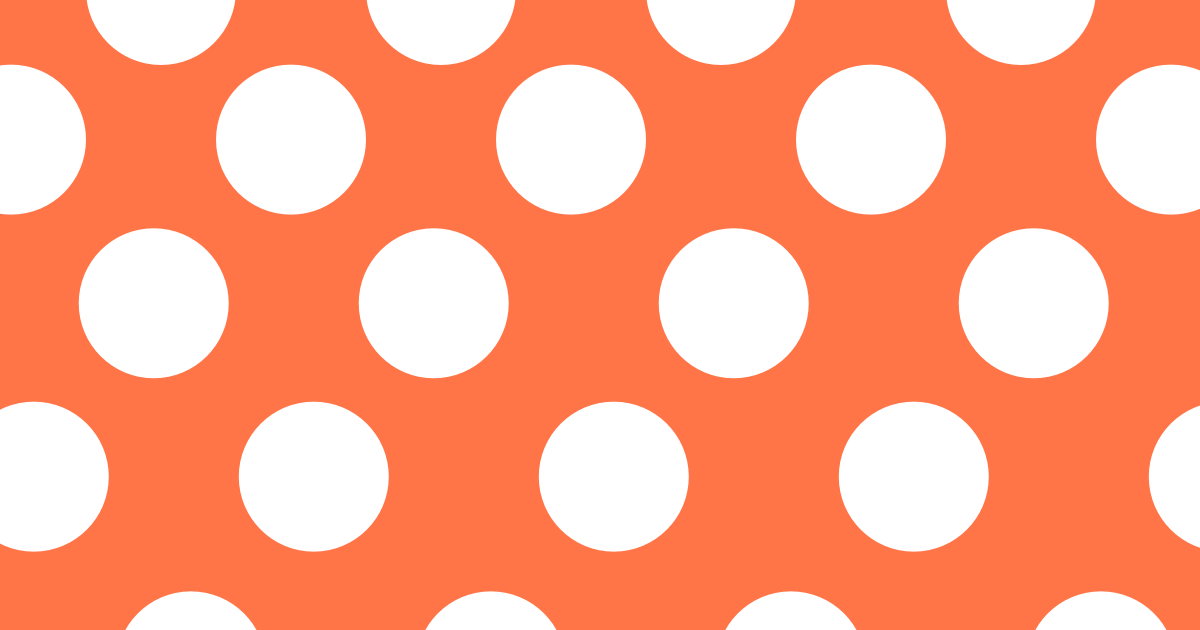
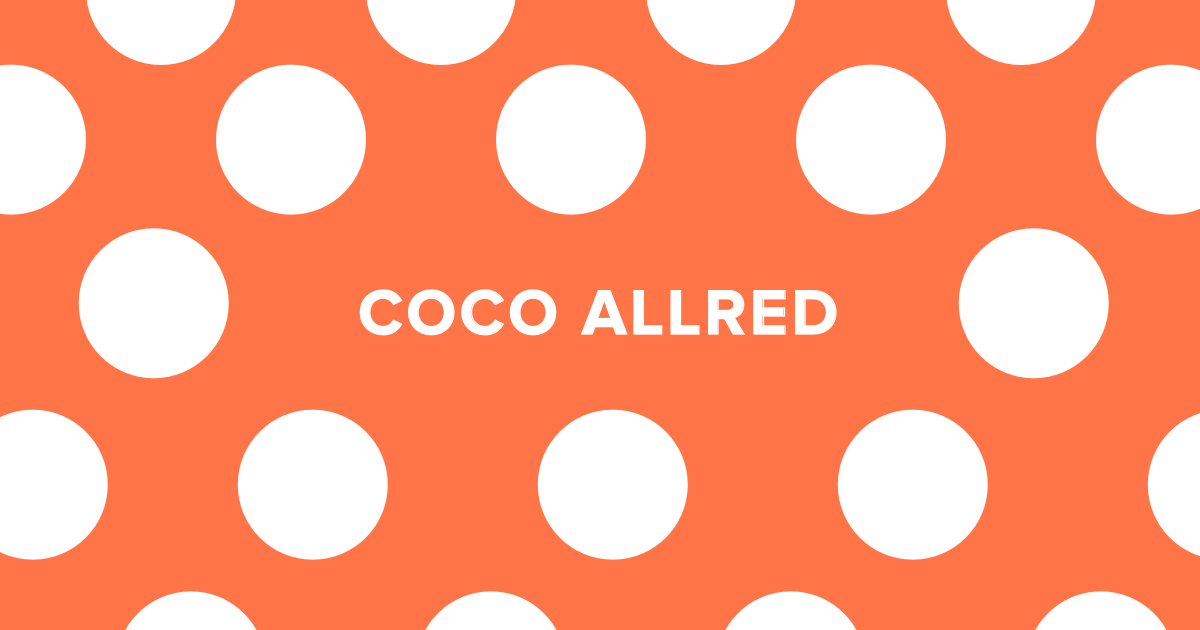
Added mobile menu button

diff --git a/css/styles.css b/css/styles.css
@@ -101,26 +101,76 @@
   }
   
   .mobile-nav {
-    left: 0;
-    right: 0;
+    left: 5vw;
+    right: 5vw;
     top: 0;
     display: block;
     position: fixed;
-    text-align: center;
+    text-align: left;
     height: 90px;
     overflow: hidden;
     background-color: white;
     z-index: 1000;
+    transition: height 0.8s;
+  }
+  
+  .page-section {
+    padding-left: 5px;
+  }
+  
+  .page-section a {
+    font-weight: bold;
+  }
+  
+  .mobile-nav[aria-expanded="true"] {
+    height: 260px;
+  }
+  
+  .menu-button {
+    position: fixed;
+    top: 24px;
+    right: 5vw;
+    height: 40px;
+    cursor: pointer;
+    transition: transform 0.8s;
+  }
+  
+  .menu-button[aria-expanded="true"] {
+    transform: rotateZ(270deg);
+  }
+  
+  .menu {
+    height: 100%;
   }
   
   .page-title {
     margin-top: 20px;
     margin-bottom: 20px;
   }
+  
+  .gradient {
+    position: fixed;
+    left: 0;
+    right: 0;
+    top: 64px;
+    height: 30px;
+    transition: top 0.8s;
+    background: linear-gradient(to top, rgba(255, 255, 255, 1), rgba(255, 255, 255, 0));
+    z-index: 1000;
+  }
+  
+  .mobile-nav[aria-expanded="true"] .gradient {
+    top: 228px;
+  }
 }
 
 @media(max-width: 550px){
   .page-title {
-    margin-top: 25px;
+    margin-top: 27px;
+    font-size: 3rem;
+  }
+  .menu-button {
+    height: 30px;
+    top: 28px;
   }
 }

diff --git a/index.html b/index.html
@@ -36,7 +36,11 @@
   </div>
   
   <div class="mobile-nav">
+    <div class="gradient"></div>
     <h2 class="page-title orange"><a href="#home">COCO ALLRED</a></h2>
+    <div class="menu-button">
+      <img class="menu" src="images/menu.png">
+    </div>
     <div class="page-section"><a href="#home">FEATURED</a></div>
     <div class="page-section"><a href="#collection1">SCULPTURE</a></div>
     <div class="page-section"><a href="#collection2">PAINTING</a></div>

diff --git a/js/scripts.js b/js/scripts.js
@@ -84,4 +84,14 @@ jQuery(document).ready(function(){
     });
   }
   
+  $(".menu-button").click(function(){
+    if ($(".menu-button").attr("aria-expanded") == "true"){
+      $(".mobile-nav").attr("aria-expanded", false);
+      $(".menu-button").attr("aria-expanded", false);
+    } else {
+      $(".mobile-nav").attr("aria-expanded", true);
+      $(".menu-button").attr("aria-expanded", true);
+    }
+  });
+  
 });
